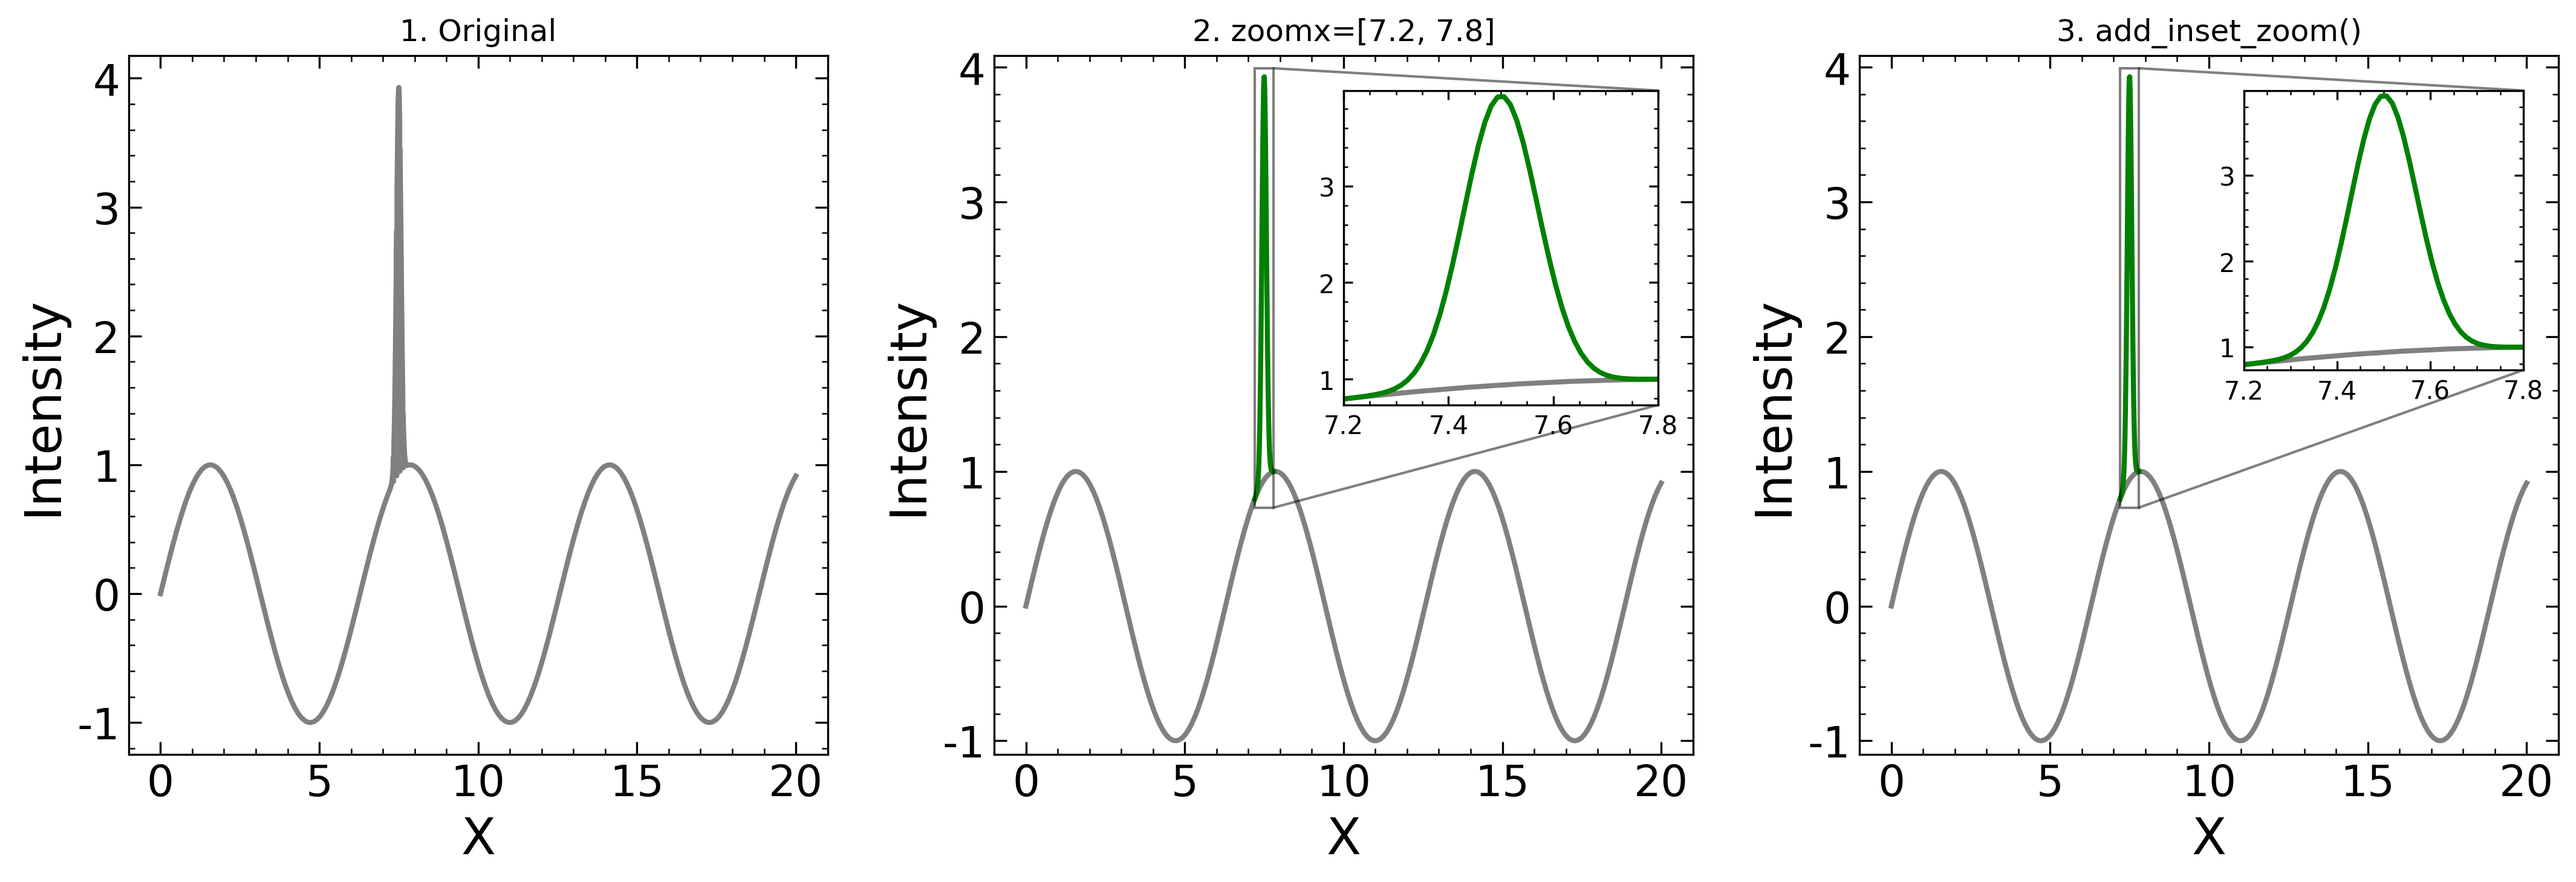
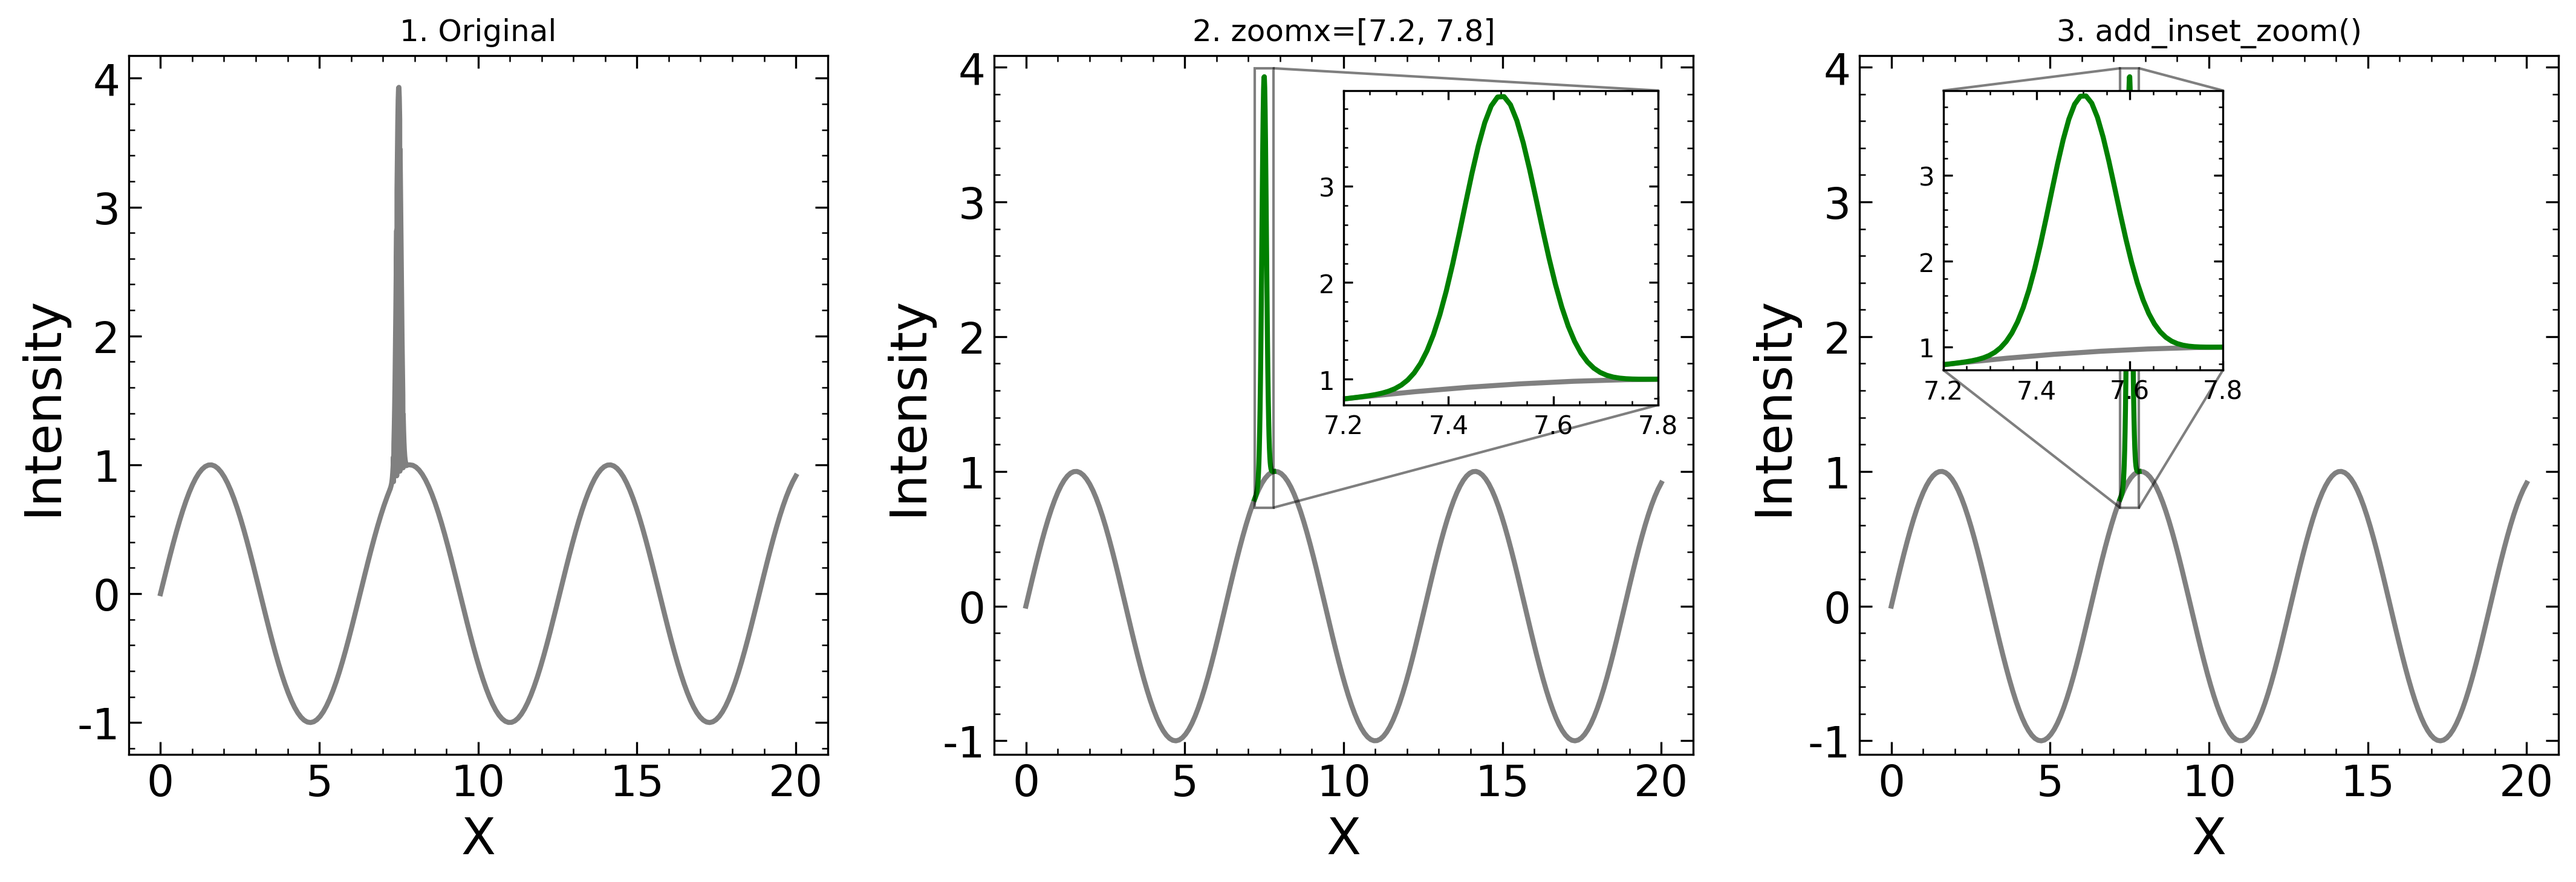
update get_xrange

Changed region(s): [[0.7493, 0.0617, 0.9991, 0.4626], [0.8117, 0.5552, 0.843, 0.586]]

diff --git a/symple_plot/plotter.py b/symple_plot/plotter.py
@@ -185,6 +185,9 @@ class symple_plot:
             self.COL = [self.col for _ in range(num_data)]
 
     def _apply_common_settings(self, **kwargs):
+        # 軸ラベル・目盛り数字のフォントサイズを上書き
+        self.axilab = kwargs.get('axilab', self.axilab)
+        self.axinum = kwargs.get('axinum', self.axinum)        
         margin = kwargs.get('margin', 0.05)
         is_logx = kwargs.get('logx', False)
         is_logy = kwargs.get('logy', False)
@@ -261,7 +264,8 @@ class symple_plot:
 
         if not is_logx: self.ax.xaxis.set_major_formatter(AutoSmartFormatter())
         if not is_logy: self.ax.yaxis.set_major_formatter(AutoSmartFormatter())
-            
+        
+        self.ax.tick_params(which='major', labelsize=self.axinum) # axinumを適用
         # 🌟 論文仕様: 内向き・四方・マイナー目盛りのデフォルト化 🌟
         if not is_3d:
             self.ax.minorticks_on() # 補助目盛りをON
@@ -285,12 +289,78 @@ class symple_plot:
 
         if lab := kwargs.get('lab'):
             if not isinstance(lab, list): lab = [lab]
-            for handle, label_text in zip(self.sca, lab):
-                self.all_handles.append(handle)
-                self.all_labels.append(label_text)
             loc = kwargs.get('loc', 'upper left')
-            if len(self.all_handles) > 0:
-                self.ax.legend(self.all_handles, self.all_labels, bbox_to_anchor=(1.01, 1), loc=loc, frameon=False, fontsize=self.axinum)
+            lab_fs = kwargs.get('lab_fs', self.axinum)  # 凡例サイズを統合
+            
+            # --- インラインラベル・モード ---
+            if isinstance(loc, str) and loc.startswith('inline'):
+                align = loc.split('_')[1] if '_' in loc else 'auto'
+                
+                # auto判定 (左右の間隔比較)
+                left_ys, right_ys = [], []
+                for x_arr, y_arr in zip(self.X, self.Y):
+                    vx, vy = valid_xy(x_arr, y_arr)
+                    if len(vx) > 0:
+                        left_ys.append(vy[0]); right_ys.append(vy[-1])
+                    else:
+                        left_ys.append(np.nan); right_ys.append(np.nan)
+                
+                if align == 'auto':
+                    l_val = np.array(left_ys)[~np.isnan(left_ys)]
+                    r_val = np.array(right_ys)[~np.isnan(right_ys)]
+                    def min_dist(arr):
+                        if len(arr) < 2: return 1.0
+                        return np.min(np.diff(np.sort(arr)))
+                    align = 'right' if min_dist(r_val) >= min_dist(l_val) else 'left'
+
+                # 各種オフセット設定
+                inline_dy = kwargs.get('inline_dy', 0)
+                if not isinstance(inline_dy, (list, tuple, np.ndarray)):
+                    inline_dy = [inline_dy] * len(self.X)
+                
+                # パディング調整 (軸と重ならないよう広めに取る)
+                inline_pad = kwargs.get('inline_pad', 0.12) 
+                x_range = self.current_xmax - self.current_xmin
+                # Xのオフセット設定: 末端(vx[-1])から少し内側に潜り込ませる
+                # x_rangeの0.5%程度を内側にオフセット
+                x_in_offset = x_range * 0.005 
+
+                for i, (x_arr, y_arr) in enumerate(zip(self.X, self.Y)):
+                    if i >= len(lab): break
+                    vx, vy = valid_xy(x_arr, y_arr)
+                    if len(vx) == 0: continue
+                    
+                    dy = inline_dy[i % len(inline_dy)]
+                    
+                    if align == 'right':
+                        # xmaxよりも少し小さい値(左側)に配置
+                        x_pos = vx[-1] - x_in_offset
+                        ha = 'right' # 右揃えにすることで、文字の末尾が末端に近づく
+                    else:
+                        # xminよりも少し大きい値(右側)に配置
+                        x_pos = vx[0] + x_in_offset
+                        ha = 'left' # 左揃え
+                        
+                    color = self.COL[i] if i < len(self.COL) else 'black'
+                    
+                    # fontweight='bold' で視認性を確保
+                    self.ax.text(x_pos, vy[-1 if align=='right' else 0] + dy, 
+                                 lab[i], color=color, ha=ha, va='center', 
+                                 fontsize=lab_fs, fontweight='bold')
+                
+                # 軸範囲の拡張は最小限(5%程度)に留め、潜り込みを際立たせる
+                inline_pad = kwargs.get('inline_pad', 0.05)
+                if align == 'right':
+                    self.ax.set_xlim(self.current_xmin, self.current_xmax + x_range * inline_pad)
+                elif align == 'left':
+                    self.ax.set_xlim(self.current_xmin - x_range * inline_pad, self.current_xmax)
+            
+            # --- 通常の凡例モード (locがinlineでない場合のみ実行) ---
+            else:
+                if len(self.sca) > 0:
+                    # 警告回避のため、ハンドルとラベルを明示的に渡す
+                    self.ax.legend(self.sca, lab, bbox_to_anchor=(1.01, 1), 
+                                   loc=loc, frameon=False, fontsize=lab_fs)
 
         # 🌟 アスペクト比の動的変更 (aspect引数対応) 🌟
         if 'aspect' in kwargs:

diff --git a/generate_images.py b/generate_images.py
@@ -1,7 +1,11 @@
+### generate_images.py の完全版（インラインラベル対応版）
+
 import os
 import numpy as np
 import matplotlib.pyplot as plt
-from symple_plot import create_symple_plots, set_style, symple_plot
+from symple_plot import create_symple_plots, set_style, symple_plot, del_file
+
+del_file('*.csv')
 
 def main():
     os.makedirs('images', exist_ok=True)
@@ -106,7 +110,7 @@ def main():
     # 3. add_inset_zoom で指定
     sp_arr5[2].plot(x_bg, y_bg, col='gray', alab=["X", "Intensity"])
     sp_arr5[2].plot(x_peak, y_peak, col='green')
-    sp_arr5[2].add_inset_zoom(xlim=[7.2, 7.8], bounds='upper right')
+    sp_arr5[2].add_inset_zoom(xlim=[7.2, 7.8], bounds='upper left')
     sp_arr5[2].ax.set_title("3. add_inset_zoom()")
     
     fig5.savefig("images/example5_zoom.png", dpi=300, bbox_inches='tight')
@@ -154,6 +158,29 @@ def main():
     sp_arr9[1].scatter(np.linspace(0, 5, 20), np.linspace(0, 5, 20)**3, alab=["Time", "Value"], size=80, marker='s', lab="Quadratic")
     fig9.savefig("images/example9_utils.png", dpi=300, bbox_inches='tight')
     plt.close(fig9)
+    
+    # 10. インラインラベル (Inline Labels) - Logistic Curve版
+    fig10, sp10 = create_symple_plots(1, 1, figsize=(8, 5))
+    
+    def logistic(x, L, k, x0):
+        return L / (1 + np.exp(-k * (x - x0)))
+        
+    x10 = np.linspace(0, 20, 100)
+    y1 = logistic(x10, 10, 0.8, 10)
+    y2 = logistic(x10, 8, 0.5, 12) + 1.5 # Y軸方向に少しオフセット
+    
+    sp10.plot([x10, x10], [y1, y2], 
+              alab=["Time (days)", "Growth Yield"], 
+              lab=["Sample A", "Sample B"], 
+              loc='inline',
+              lab_fs=13,
+              inline_dy=[0.4, -0.4], 
+              inline_pad=0.08) # 潜り込みを活かしつつ余白を調整
+    
+    sp10.ax.set_title("Inline Labels with Logistic Curves")
+    fig10.savefig("images/example10_inline.png", dpi=300, bbox_inches='tight')
+    plt.close(fig10)
+    
     set_style('default')
 
     print("\n✅ All example images have been successfully generated!")

diff --git a/README.md b/README.md
@@ -281,8 +281,6 @@ sp2.tdscatter(
 **▼ 出力例:**
 ![Imshowと3D](images/example8_3d.png)
 
----
-
 ### 9. 論文・プレゼン用ユーティリティ (Auto Style & Labels)
 
 論文やスライド作成を加速するため、描画スタイルの一括適用（`style`）と、各パネルへの `(a)`, `(b)` ラベルの自動付与（`auto_label`）をサポートしています。
@@ -301,6 +299,35 @@ sp_arr[1].scatter(x, x**3, alab=["Time", "Value"], size=80, marker='s', lab="Qua
 
 **▼ 出力例:**
 ![Auto Style & Labels](images/example9_utils.png)
+
+### 10. インラインラベル (Inline Labels)
+
+データの右端または左端に直接凡例テキストを配置する「インラインラベル」に対応しています。`loc='inline'` を指定すると、データの間隔が広い（文字が被りにくい）方を自動で判定し、プロットと同じ色でラベルを描画します。
+ラベルが被る場合は、`inline_dy` と `inline_fs` を用いて位置やサイズを微調整できます。
+
+```python
+import numpy as np
+from symple_plot import create_symple_plots
+
+def logistic(x, L, k, x0):
+    return L / (1 + np.exp(-k * (x - x0)))
+
+fig, sp = create_symple_plots(1, 1, figsize=(8, 5))
+x = np.linspace(0, 20, 100)
+y1 = logistic(x, 10, 0.8, 10)
+y2 = logistic(x, 8, 0.5, 12) + 1.0
+
+# loc='inline' でラベルを配置。データ末端に潜り込むように自動調整されます。
+sp.plot([x, x], [y1, y2], 
+        alab=["Time (days)", "Yield (mg)"], 
+        lab=["Strain A (Wild)", "Strain B (Mutant)"], 
+        loc='inline',
+        lab_fs=12,
+        inline_dy=[0.3, -0.3]) # ラベルが近い場合に上下に微調整
+```
+
+**▼ 出力例:**
+![インラインラベル](images/example10_inline.png)
 
 ---
 
@@ -322,6 +349,12 @@ sp_arr[1].scatter(x, x**3, alab=["Time", "Value"], size=80, marker='s', lab="Qua
 | `aspect` | float | グラフのアスペクト比を指定（例: 1.0で正方形、0.5で横長） |
 | `alab` | list | 軸ラベルを指定 `[xlabel, ylabel, (zlabel)]` |
 | `lab` | list/str | 凡例のテキスト |
+| `loc` | str | 凡例の配置。`'inline'` で線の端に直接配置（`'inline_right'`, `'inline_left'` で強制指定可） |
+| `inline_dy` | float/list| [インラインラベル] 各ラベルのY座標のオフセット（例: `[0.1, -0.1]`） |
+| `inline_pad`| float | [インラインラベル] ラベル描画のためにX軸を拡張する割合（デフォルト: 0.05 = 5%）|
+| `axilab` | int | 軸ラベル (xlabel, ylabel) のフォントサイズ |
+| `axinum` | int | 軸の目盛り数値のフォントサイズ |
+| `margin` | float | 自動スケーリング時の余白割合 (デフォルト: 0.05) |
 | `cx` / `cy` | list | 軸の描画範囲を固定 `[min, max]` |
 | `logx` / `logy` | bool | 軸を対数スケールにする |
 | `nox` / `noy` | bool | 軸の目盛りラベルのみを非表示にする |
